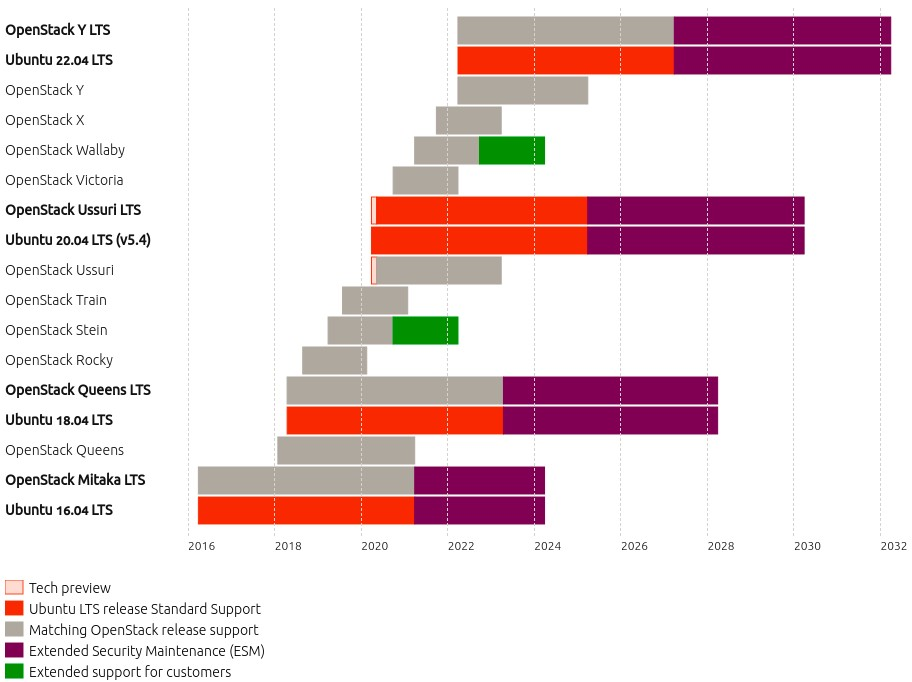
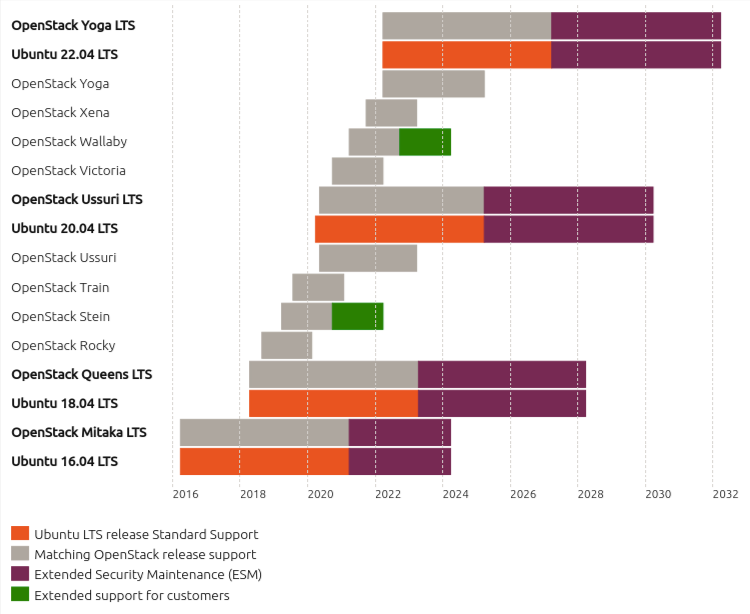
Refreshen upgrade overview page
Update the release cadence graphic and modernise a
few values.

diff --git a/deploy-guide/source/upgrade-overview.rst b/deploy-guide/source/upgrade-overview.rst
@@ -16,10 +16,10 @@ Charms upgrade
 OpenStack upgrade
   An upgrade of the software deployed by the OpenStack charms. Each application
   is upgraded via its corresponding charm. This constitutes an upgrade from one
-  major OpenStack version to the next (e.g. Ussuri to Victoria).
+  major OpenStack version to the next (e.g. Xena to Yoga).
 
 Series upgrade
-  An upgrade of the Ubuntu operating system (e.g. Bionic to Focal) on the cloud
+  An upgrade of the Ubuntu operating system (e.g. Focal to Jammy) on the cloud
   nodes. This includes containers.
 
 .. important::
@@ -100,7 +100,7 @@ Each software component has a predictable release cycle.
      - Schedule
 
    * - OpenStack Charms
-     - 3
+     - 6
      - https://docs.openstack.org/charm-guide/latest/release-schedule.html
 
    * - OpenStack
@@ -171,16 +171,16 @@ Two example scenarios are provided next.
 target: a specific Ubuntu release
 ~~~~~~~~~~~~~~~~~~~~~~~~~~~~~~~~~
 
-* Current state: OpenStack Train on Ubuntu 18.04 LTS
-* Goal state: Ubuntu 20.04 LTS
+* Current state: OpenStack Xena on Ubuntu 20.04 LTS
+* Goal state: Ubuntu 22.04 LTS
 
 Upgrade path:
 
 #. Upgrade charms to latest stable revision for the current charm type
-#. Upgrade OpenStack from Train to Ussuri
-#. Upgrade series from bionic to focal
+#. Upgrade OpenStack from Xena to Yoga
+#. Upgrade series from focal to jammy
 
-Final result: OpenStack Ussuri on Ubuntu 20.04 LTS
+Final result: OpenStack Yoga on Ubuntu 22.04 LTS
 
 target: a specific OpenStack version
 ~~~~~~~~~~~~~~~~~~~~~~~~~~~~~~~~~~~~
